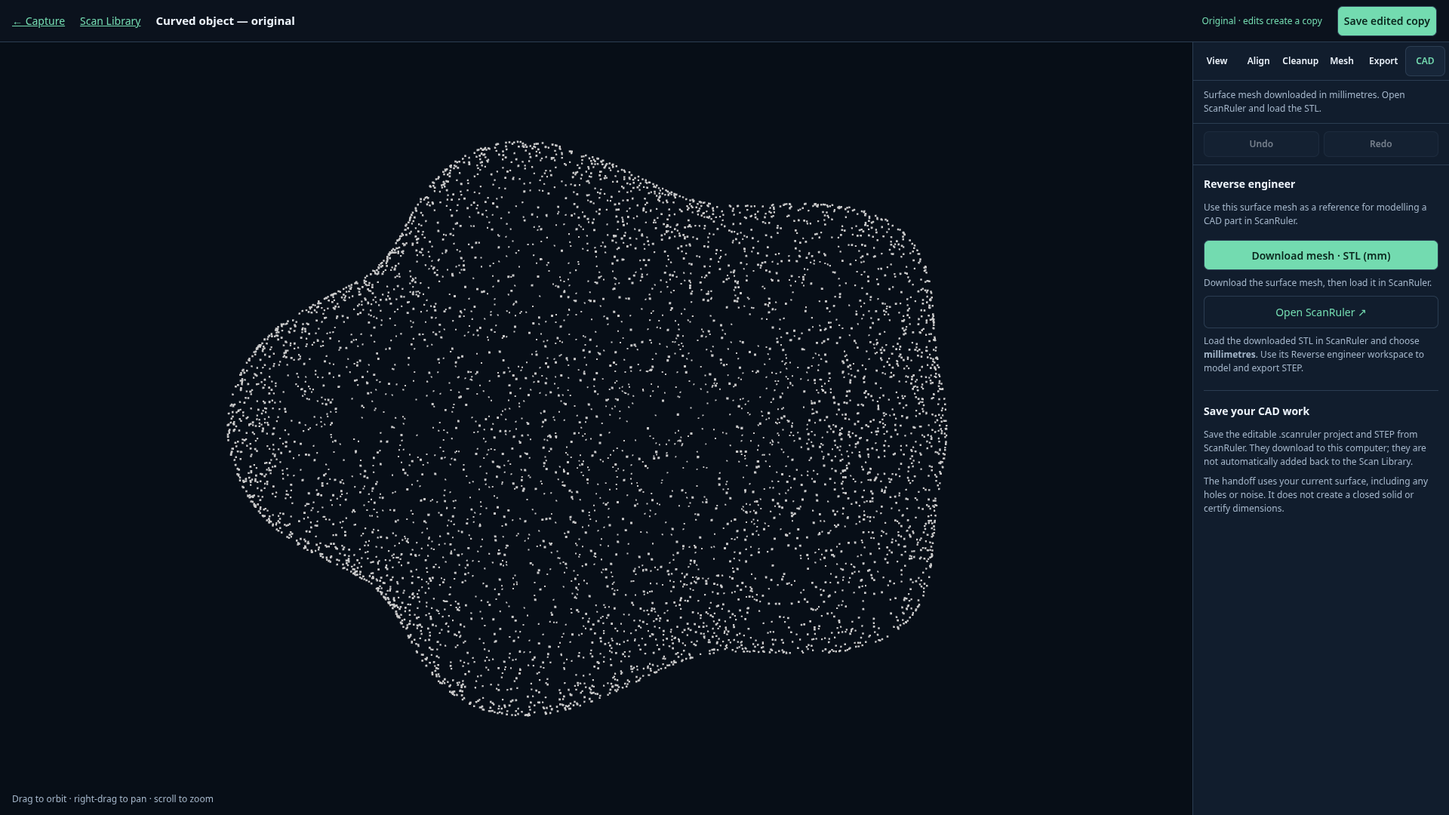
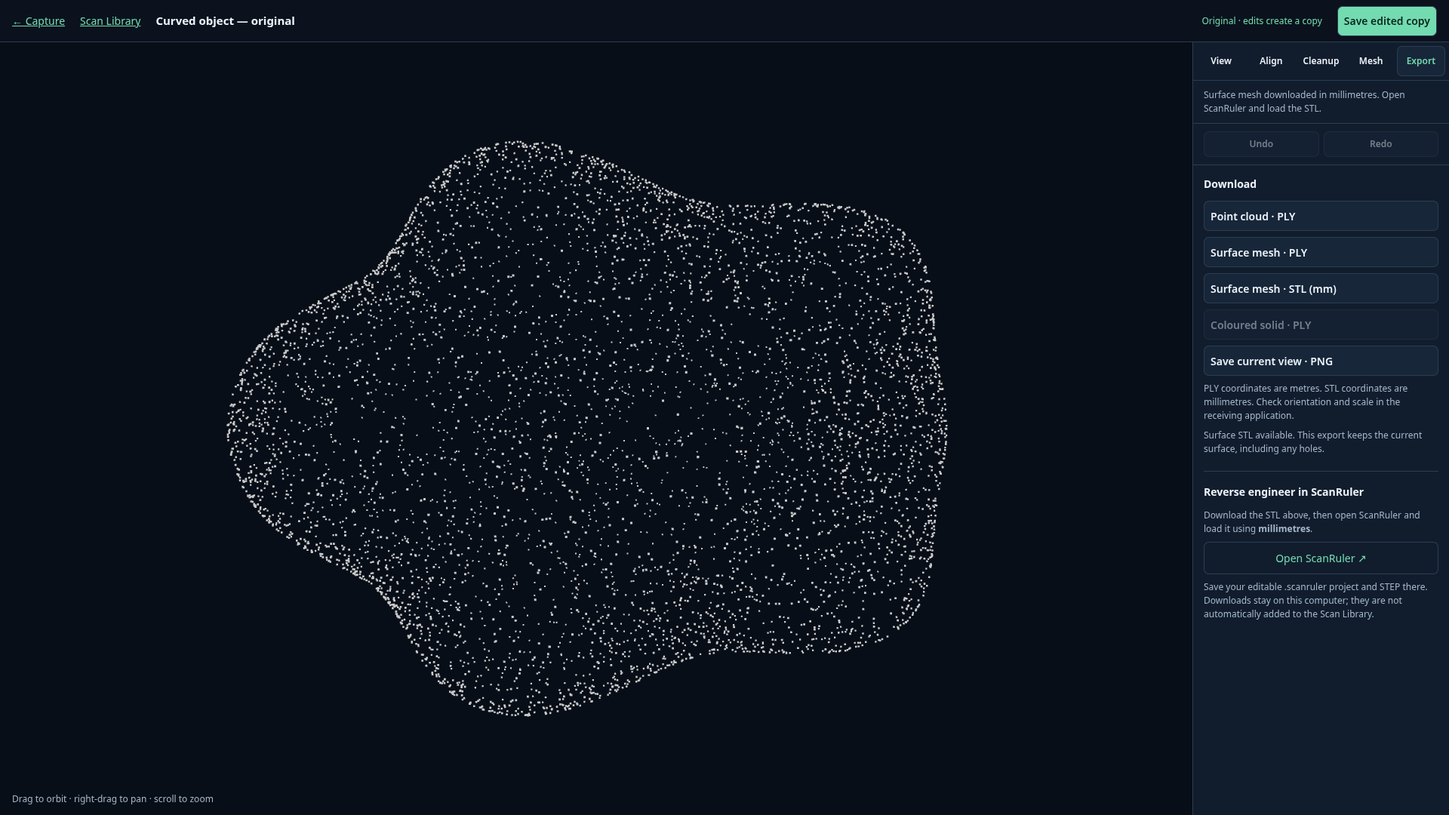
Consolidate ScanRuler handoff into Export and reuse STL download

Changed region(s): [[0.8125, 0.2139, 1.0, 0.7639], [0.8438, 0.0611, 1.0, 0.0917]]

diff --git a/tribuutscan/web/index.html b/tribuutscan/web/index.html
@@ -1,6 +1,6 @@
 <!doctype html><html lang="en"><head><meta charset="utf-8"><meta name="viewport" content="width=device-width,initial-scale=1"><title>Saved scan workspace · triBUUTSCAN</title>
 <style>
-:root{color-scheme:dark;--bg:#0b121d;--panel:#111d2d;--raised:#172639;--line:#2b3d52;--text:#edf4fc;--muted:#a4b6ca;--accent:#73dbb0;font:14px/1.5 system-ui,sans-serif}*{box-sizing:border-box}body{margin:0;background:var(--bg);color:var(--text)}a{color:var(--accent)}header{height:56px;display:flex;align-items:center;gap:20px;padding:0 16px;border-bottom:1px solid var(--line)}header h1{font-size:15px;margin:0;overflow:hidden;text-overflow:ellipsis;white-space:nowrap;flex:1}button,input,select{font:inherit;border:1px solid var(--line);border-radius:7px;background:var(--raised);color:var(--text);min-height:40px;padding:8px}button{font-weight:600;cursor:pointer}button:hover:enabled{background:#26405b}button:disabled,.later{opacity:.45;cursor:default}.primary{background:var(--accent);color:#09251c}button:focus-visible,a:focus-visible,select:focus-visible,input:focus-visible{outline:3px solid #81c8ff;outline-offset:2px}[hidden]{display:none!important}.workspace-body{display:grid;grid-template-columns:minmax(0,1fr) 340px;position:relative;height:calc(100dvh - 56px)}.viewport{position:relative;min-height:300px;min-width:0;background:#070e17}#view,#selection{position:absolute;inset:0;width:100%;height:100%;display:block}#view{touch-action:none}#selection{pointer-events:none}#empty{position:absolute;inset:0;display:none;place-items:center;color:var(--muted);padding:24px;text-align:center;pointer-events:none}#empty.show{display:grid}.view-hint{position:absolute;bottom:12px;left:16px;color:var(--muted);font-size:12px;pointer-events:none}.tools{background:var(--panel);border-left:1px solid var(--line);display:flex;flex-direction:column;min-height:0}.tool-tabs{display:grid;grid-template-columns:repeat(6,minmax(0,1fr));gap:2px;padding:5px;border-bottom:1px solid var(--line);background:var(--panel);flex-shrink:0;z-index:4}.tool-tabs button{background:transparent;border-color:transparent;font-size:12px;padding:8px 2px;min-width:0}.tool-tabs button[aria-selected=true]{color:var(--accent);background:var(--raised);border-color:var(--line)}.tool-content{overflow:auto;min-height:0;padding:14px}.tool-content section+section{margin-top:20px;padding-top:16px;border-top:1px solid var(--line)}h2{font-size:14px;margin:0 0 12px}p,label,dt{color:var(--muted);font-size:12px}p{margin:8px 0}label{display:block;margin:12px 0 4px}select,input[type=range]{width:100%}dl{display:grid;grid-template-columns:auto 1fr;gap:6px 12px;margin:0 0 16px}dd{margin:0;text-align:right;font-size:12px}button.wide{width:100%;margin-top:8px}.buttons{display:flex;gap:6px;margin-top:8px}.buttons button{flex:1;font-size:12px}.downloads{display:grid;gap:8px}.downloads button{text-align:left}.history{display:flex;gap:6px;padding:10px 14px;border-bottom:1px solid var(--line)}.history button{flex:1;min-height:34px;font-size:12px;padding:6px}#status{padding:10px 14px;margin:0;border-bottom:1px solid var(--line);font-size:12px;color:var(--muted);overflow-wrap:anywhere}#status[data-error=true]{color:#ffb6bf}#edit-state{font-size:12px;color:var(--accent);white-space:nowrap}#coverage-legend{font-size:12px;color:var(--muted)}#coverage-legend ul{list-style:none;padding:0}.swatch{display:inline-block;width:9px;height:9px;border-radius:50%;margin-right:6px}.light{background:#ffc45c}.repeat{background:#53b9ff}#cropbox label{display:flex;justify-content:space-between}#cropbox output{color:var(--text)}.bad{color:#ffb6bf}#alignment-frame{position:absolute;inset:0;width:100%;height:100%;border:0;z-index:2}.align-active .tools{background:transparent;pointer-events:none;z-index:3}.align-active .tool-tabs{pointer-events:auto}.align-active .tool-content,.align-active .history,.align-active #status{visibility:hidden}.align-active .viewport{visibility:hidden}
+:root{color-scheme:dark;--bg:#0b121d;--panel:#111d2d;--raised:#172639;--line:#2b3d52;--text:#edf4fc;--muted:#a4b6ca;--accent:#73dbb0;font:14px/1.5 system-ui,sans-serif}*{box-sizing:border-box}body{margin:0;background:var(--bg);color:var(--text)}a{color:var(--accent)}header{height:56px;display:flex;align-items:center;gap:20px;padding:0 16px;border-bottom:1px solid var(--line)}header h1{font-size:15px;margin:0;overflow:hidden;text-overflow:ellipsis;white-space:nowrap;flex:1}button,input,select{font:inherit;border:1px solid var(--line);border-radius:7px;background:var(--raised);color:var(--text);min-height:40px;padding:8px}button{font-weight:600;cursor:pointer}button:hover:enabled{background:#26405b}button:disabled,.later{opacity:.45;cursor:default}.primary{background:var(--accent);color:#09251c}button:focus-visible,a:focus-visible,select:focus-visible,input:focus-visible{outline:3px solid #81c8ff;outline-offset:2px}[hidden]{display:none!important}.workspace-body{display:grid;grid-template-columns:minmax(0,1fr) 340px;position:relative;height:calc(100dvh - 56px)}.viewport{position:relative;min-height:300px;min-width:0;background:#070e17}#view,#selection{position:absolute;inset:0;width:100%;height:100%;display:block}#view{touch-action:none}#selection{pointer-events:none}#empty{position:absolute;inset:0;display:none;place-items:center;color:var(--muted);padding:24px;text-align:center;pointer-events:none}#empty.show{display:grid}.view-hint{position:absolute;bottom:12px;left:16px;color:var(--muted);font-size:12px;pointer-events:none}.tools{background:var(--panel);border-left:1px solid var(--line);display:flex;flex-direction:column;min-height:0}.tool-tabs{display:grid;grid-template-columns:repeat(5,minmax(0,1fr));gap:2px;padding:5px;border-bottom:1px solid var(--line);background:var(--panel);flex-shrink:0;z-index:4}.tool-tabs button{background:transparent;border-color:transparent;font-size:12px;padding:8px 2px;min-width:0}.tool-tabs button[aria-selected=true]{color:var(--accent);background:var(--raised);border-color:var(--line)}.tool-content{overflow:auto;min-height:0;padding:14px}.tool-content section+section{margin-top:20px;padding-top:16px;border-top:1px solid var(--line)}h2{font-size:14px;margin:0 0 12px}p,label,dt{color:var(--muted);font-size:12px}p{margin:8px 0}label{display:block;margin:12px 0 4px}select,input[type=range]{width:100%}dl{display:grid;grid-template-columns:auto 1fr;gap:6px 12px;margin:0 0 16px}dd{margin:0;text-align:right;font-size:12px}button.wide{width:100%;margin-top:8px}.buttons{display:flex;gap:6px;margin-top:8px}.buttons button{flex:1;font-size:12px}.downloads{display:grid;gap:8px}.downloads button{text-align:left}.history{display:flex;gap:6px;padding:10px 14px;border-bottom:1px solid var(--line)}.history button{flex:1;min-height:34px;font-size:12px;padding:6px}#status{padding:10px 14px;margin:0;border-bottom:1px solid var(--line);font-size:12px;color:var(--muted);overflow-wrap:anywhere}#status[data-error=true]{color:#ffb6bf}#edit-state{font-size:12px;color:var(--accent);white-space:nowrap}#coverage-legend{font-size:12px;color:var(--muted)}#coverage-legend ul{list-style:none;padding:0}.swatch{display:inline-block;width:9px;height:9px;border-radius:50%;margin-right:6px}.light{background:#ffc45c}.repeat{background:#53b9ff}#cropbox label{display:flex;justify-content:space-between}#cropbox output{color:var(--text)}.bad{color:#ffb6bf}#alignment-frame{position:absolute;inset:0;width:100%;height:100%;border:0;z-index:2}.align-active .tools{background:transparent;pointer-events:none;z-index:3}.align-active .tool-tabs{pointer-events:auto}.align-active .tool-content,.align-active .history,.align-active #status{visibility:hidden}.align-active .viewport{visibility:hidden}
 @media(max-width:760px){header{height:auto;min-height:56px;flex-wrap:wrap;gap:8px;padding:10px}header h1{order:3;flex-basis:100%;font-size:13px}#copy-scan{margin-left:auto;font-size:12px}#edit-state{font-size:11px}.workspace-body{display:flex;flex-direction:column;height:auto}.viewport{height:52dvh;min-height:300px}.tools{border-left:0;border-top:1px solid var(--line)}.tool-content{max-height:65dvh}.align-active{height:calc(100dvh - 100px)}.align-active .viewport{height:0;min-height:0}.align-active .tools{height:48px}.align-active #alignment-frame{top:48px;height:calc(100% - 48px)}}
 @media(max-width:760px),(pointer:coarse){.desktop-cad{display:none!important}.tool-tabs{grid-template-columns:repeat(5,minmax(0,1fr))}}
 .cad-link{display:block;text-align:center;border:1px solid var(--line);border-radius:7px;padding:10px;margin-top:8px;text-decoration:none}
@@ -8,7 +8,7 @@
 <header><a id="scanner-controls" href="/">← Capture</a><a id="library-link" href="/library">Scan Library</a><h1 id="name">Saved scan workspace</h1><span id="edit-state">Original</span><button id="copy-scan" class="primary">Save edited copy</button></header>
 <main class="workspace-body" id="workspace-body"><section class="viewport" id="viewport"><canvas id="view" aria-label="Saved scan model"></canvas><canvas id="selection"></canvas><div id="empty"><div>No saved model loaded. Return to Capture → Files to open a scan.</div></div><div class="view-hint" id="view-hint">Drag to orbit · right-drag to pan · scroll to zoom</div></section>
 <aside class="tools"><nav class="tool-tabs" role="tablist" aria-label="Saved scan tools">
-<button id="tab-view" role="tab" data-tool="view" aria-controls="panel-view" aria-selected="true">View</button><button id="tab-align" role="tab" data-tool="align" aria-controls="panel-align" aria-selected="false" tabindex="-1">Align</button><button id="tab-cleanup" role="tab" data-tool="cleanup" aria-controls="panel-cleanup" aria-selected="false" tabindex="-1">Cleanup</button><button id="tab-mesh" role="tab" data-tool="mesh" aria-controls="panel-mesh" aria-selected="false" tabindex="-1">Mesh</button><button id="tab-export" role="tab" data-tool="export" aria-controls="panel-export" aria-selected="false" tabindex="-1">Export</button><button id="tab-cad" class="desktop-cad" role="tab" data-tool="cad" aria-controls="panel-cad" aria-selected="false" tabindex="-1" title="Reverse engineer in ScanRuler">CAD</button></nav>
+<button id="tab-view" role="tab" data-tool="view" aria-controls="panel-view" aria-selected="true">View</button><button id="tab-align" role="tab" data-tool="align" aria-controls="panel-align" aria-selected="false" tabindex="-1">Align</button><button id="tab-cleanup" role="tab" data-tool="cleanup" aria-controls="panel-cleanup" aria-selected="false" tabindex="-1">Cleanup</button><button id="tab-mesh" role="tab" data-tool="mesh" aria-controls="panel-mesh" aria-selected="false" tabindex="-1">Mesh</button><button id="tab-export" role="tab" data-tool="export" aria-controls="panel-export" aria-selected="false" tabindex="-1">Export</button></nav>
 <p id="status" role="status">Loading saved scan…</p><div class="history"><button id="edit-undo" disabled>Undo</button><button id="edit-redo" disabled>Redo</button></div>
 <div class="tool-content">
 <div id="panel-view" role="tabpanel" aria-labelledby="tab-view" data-panel="view"><section><h2>Model</h2><dl><dt>Points</dt><dd id="points">–</dd><dt>Point spacing</dt><dd id="pd">–</dd><dt>Source points</dt><dd id="raw">–</dd><dt>Accepted views</dt><dd id="frames">–</dd></dl><span hidden><span id="capture"></span><span id="tracking"></span><span id="geometry"></span><span id="last-view-label"></span><span id="last-view"></span><span id="scanhint"></span></span><div id="piece-picker" hidden><label>Pieces<select id="piece"></select></label><p id="piece-note"></p></div>
@@ -23,8 +23,7 @@
 <label for="c5">Front<output id="v5">0 mm</output></label><input id="c5" type="range" min="0" max="1" step="1" value="0">
 <div class="buttons"><button id="crop-apply" class="primary">Apply crop</button><button id="crop-cancel">Cancel</button></div></div><div class="buttons"><button data-action="base-off">Remove base</button><button data-action="base-on">Keep base</button></div></section></div>
 <div id="panel-mesh" role="tabpanel" aria-labelledby="tab-mesh" data-panel="mesh" hidden><section><h2>Build surface</h2><button data-action="mesh" class="wide primary">Generate mesh</button><p>Uses recorded depth when available. A rough point-cloud surface is the fallback when recordings cannot be used.</p><p id="mesh-status"></p></section><section><h2>Reprocess source geometry</h2><button data-action="optimise" class="wide">Optimise alignment</button><p>Optimise before lasso cleanup. Geometry changes may retire generated meshes.</p><label>Rebuild point cloud spacing</label><div class="buttons"><button data-action="small">0.5 mm</button><button data-action="medium">1 mm</button><button data-action="large">2 mm</button></div></section></div>
-<div id="panel-export" role="tabpanel" aria-labelledby="tab-export" data-panel="export" hidden><section><h2>Download</h2><div class="downloads"><button id="dl-ply">Point cloud · PLY</button><button id="dl-mesh" disabled>Surface mesh · PLY</button><button id="dl-stl" disabled>Printable mesh · STL</button><button id="dl-solid" disabled>Coloured solid · PLY</button><button id="dl-png">Save current view · PNG</button></div><p>PLY coordinates are metres. STL coordinates are millimetres. Check orientation and scale in the receiving application.</p><p id="export-status"></p></section></div>
-<div id="panel-cad" class="desktop-cad" role="tabpanel" aria-labelledby="tab-cad" data-panel="cad" hidden><section><h2>Reverse engineer</h2><p>Use this surface mesh as a reference for modelling a CAD part in ScanRuler.</p><button id="cad-download" class="wide primary" disabled>Download mesh · STL (mm)</button><p id="cad-status" role="status"></p><a id="cad-open" class="cad-link" href="https://scanruler.com/?workspace=reverse" target="_blank" rel="noopener noreferrer">Open ScanRuler ↗</a><p>Load the downloaded STL in ScanRuler and choose <strong>millimetres</strong>. Use its Reverse engineer workspace to model and export STEP.</p></section><section><h2>Save your CAD work</h2><p>Save the editable .scanruler project and STEP from ScanRuler. They download to this computer; they are not automatically added back to the Scan Library.</p><p>The handoff uses your current surface, including any holes or noise. It does not create a closed solid or certify dimensions.</p></section></div>
+<div id="panel-export" role="tabpanel" aria-labelledby="tab-export" data-panel="export" hidden><section><h2>Download</h2><div class="downloads"><button id="dl-ply">Point cloud · PLY</button><button id="dl-mesh" disabled>Surface mesh · PLY</button><button id="dl-stl" disabled>Printable mesh · STL</button><button id="dl-solid" disabled>Coloured solid · PLY</button><button id="dl-png">Save current view · PNG</button></div><p>PLY coordinates are metres. STL coordinates are millimetres. Check orientation and scale in the receiving application.</p><p id="export-status"></p></section><section id="cad-handoff" class="desktop-cad"><h2>Reverse engineer in ScanRuler</h2><p>Download the STL above, then open ScanRuler and load it using <strong>millimetres</strong>.</p><a id="cad-open" class="cad-link" href="https://scanruler.com/?workspace=reverse" target="_blank" rel="noopener noreferrer">Open ScanRuler ↗</a><p>Save your editable .scanruler project and STEP there. Downloads stay on this computer; they are not automatically added to the Scan Library.</p></section></div>
 </div></aside><iframe id="alignment-frame" title="Saved scan alignment" hidden></iframe></main>
 <script type="module">
 
@@ -396,12 +395,13 @@ function updateTools(){
   $('cleanup-clear').disabled=busy||!done||!remote||!session.cleanup_regions;
   $('crop-open').disabled=busy||!done;$('crop-apply').disabled=busy||!done;
   $('crop-open').classList.toggle('later',!done||busy);
-  for(const [id,key] of [['dl-mesh','mesh'],['dl-stl','stl'],['dl-solid','solid']])$(id).disabled=!lastInfo?.[key]||busy;
+  for(const [id,key] of [['dl-mesh','mesh'],['dl-solid','solid']])$(id).disabled=!lastInfo?.[key]||busy;
   $('edit-state').textContent=lastInfo?.editing?'Editable copy':'Original · edits create a copy';
   $('mesh-status').textContent=lastInfo?.mesh?'Surface mesh available. Regenerate after geometry cleanup.':'No surface mesh generated yet.';
-  $('cad-download').disabled=busy||!done||!lastInfo?.mesh;
-  $('cad-status').textContent=!done?'Open a finished scan to prepare a handoff.':lastInfo?.mesh?'Download the surface mesh, then load it in ScanRuler.':'Generate a surface in Mesh first. Point clouds cannot be handed off yet.';
-  $('export-status').textContent=lastInfo?.stl?(lastInfo.stl_state==='closed'?'Closed STL available.':'STL available; check closure before printing.'):'Generate a mesh to enable mesh exports.';
+  $('dl-stl').disabled=busy||(!lastInfo?.stl&&(!done||!lastInfo?.mesh));
+  $('dl-stl').classList.toggle('later',$('dl-stl').disabled);
+  $('dl-stl').textContent=lastInfo?.stl?'Printable mesh · STL (mm)':'Surface mesh · STL (mm)';
+  $('export-status').textContent=lastInfo?.stl?(lastInfo.stl_state==='closed'?'Closed STL available.':'STL available; check closure before printing.'):lastInfo?.mesh?'Surface STL available. This export keeps the current surface, including any holes.':'Generate a mesh to enable mesh exports.';
 }
 
 async function poll() {
@@ -453,8 +453,7 @@ async function poll() {
     if(key===cloudKey)renderedModel={name:info.name,version:info.version};
     $("dl-ply").classList.toggle("later", info.phase === "paused" || !$("piece-picker").hidden);
     $("dl-mesh").classList.toggle("later", !info.mesh);
-    $("dl-stl").classList.toggle("later", !info.stl);
-    $("dl-stl").title = !info.stl ? "make a full mesh first"
+    $("dl-stl").title = !info.stl ? (info.mesh ? "mm, current surface; may contain holes" : "Generate a surface mesh first")
       : info.stl_state === "closed" ? "mm, closed, for slicers"
       : info.stl_state === "open" ? "mm, unsealed surface"
       : "mm, closure not recorded";
@@ -506,7 +505,7 @@ if (!location.pathname.startsWith("/model/")) $("scanner-controls").classList.ad
 if (!location.pathname.startsWith('/model/')) $('library-link').hidden=true;
 $("dl-ply").addEventListener("click", () => { if (!$("dl-ply").classList.contains("later")) location.href = "cloud.ply"; });
 $("dl-mesh").addEventListener("click", () => { if (!$("dl-mesh").classList.contains("later")) location.href = "mesh.ply"; });
-$("dl-stl").addEventListener("click", () => { if (!$("dl-stl").classList.contains("later")) location.href = "mesh.stl"; });
+$("dl-stl").addEventListener("click", () => { if($("dl-stl").disabled)return;if(lastInfo?.stl)location.href="mesh.stl";else downloadSurfaceStl(); });
 $("dl-solid").addEventListener("click", () => { if (!$("dl-solid").classList.contains("later")) location.href = "solid.ply"; });
 document.querySelectorAll("[data-action]").forEach((li) => li.addEventListener("click", () => {
   if (!li.classList.contains("later")) runAction(li.dataset.action, li.textContent.trim());
@@ -527,7 +526,7 @@ $("dl-png").addEventListener("click", () => {
 });
 
 // Desktop-only file handoff: no scanner tokens or private model URLs leave this page.
-$('cad-download').onclick=async()=>{
+async function downloadSurfaceStl(){
  if(busy||lastInfo?.phase!=='done'||!lastInfo?.mesh)return;
  const snapshot={...lastInfo};busy=true;updateTools();status('Preparing surface mesh handoff…');
  try{
@@ -540,13 +539,6 @@ $('cad-download').onclick=async()=>{
   status('Surface mesh downloaded in millimetres. Open ScanRuler and load the STL.');
  }catch(e){status(e.message,true);}finally{busy=false;updateTools();}
 };
-const cadPhone=window.matchMedia('(max-width: 760px), (pointer: coarse)');
-function updateCadDevice(){
- $('tab-cad').hidden=cadPhone.matches;
- if(cadPhone.matches&&tool==='cad')selectTool('view');
-}
-updateCadDevice();cadPhone.addEventListener('change',updateCadDevice);
-
 function selectTool(name,focus=false){
   tool=name;
   for(const tab of document.querySelectorAll('[data-tool]')){

diff --git a/docs/cad-handoff.md b/docs/cad-handoff.md
@@ -1,15 +1,16 @@
 # Desktop CAD handoff
 
 Open a saved scan, finish alignment/cleanup and generate a surface in **Mesh**.
-The desktop saved workspace has a **CAD** tab for handing that mesh to
+The desktop saved workspace groups the handoff under **Export**, with a link to
 [ScanRuler](https://scanruler.com/?workspace=reverse) in a separate browser tab.
 
 ![Desktop CAD handoff using synthetic geometry](images/saved-cad-handoff.png)
 
 ## Download, open and model
 
-1. In **CAD**, press **Download mesh · STL (mm)**. The browser downloads
-   `<scan-id>-surface-mm.stl` from the selected session's current `mesh.ply`.
+1. In **Export**, download the STL. **Printable mesh · STL (mm)** downloads the
+   existing STL when available. Otherwise **Surface mesh · STL (mm)** converts the
+   current surface to `<scan-id>-surface-mm.stl`. A surface mesh is required.
 2. Press **Open ScanRuler**. In that tab, load the downloaded STL and choose
    **millimetres** when asked for its units. Select **Reverse engineer** if needed.
 3. Model the part against the scan, then save its editable `.scanruler` project
@@ -23,9 +24,10 @@ helper. ScanRuler's modelling capabilities and workflow are described in its
 
 ## Surface and units
 
-The handoff converts the saved surface coordinates from metres to millimetres.
-It uses the actual surface mesh, including a rough/open fallback surface when
-available; it does not require a separate printable STL. Triangle geometry and
+When no saved STL exists, the download converts saved surface coordinates from
+metres to millimetres. It supports rough/open fallback surfaces without creating
+a separate printable STL. An existing printable STL may contain reconstructed
+regions; inspect it against the source scan before modelling critical features. Triangle geometry and
 orientation are retained. It does not fill holes, close the part, create a CAD
 solid or certify accuracy. Colour is not carried by this binary STL.
 
@@ -36,9 +38,9 @@ or a previous printable STL. Downloads do not modify the capture or its exports.
 
 ## Desktop scope and saved work
 
-CAD handoff is hidden on narrow screens (760 pixels or less) and devices whose
+The ScanRuler section is hidden on narrow screens (760 pixels or less) and devices whose
 primary pointer is coarse, including phones. Scanning and the existing phone
-controls remain available. ScanRuler runs its modelling in the desktop browser;
+controls and ordinary STL downloads remain available. ScanRuler runs its modelling in the desktop browser;
 this feature does not move that work onto the scanner host when browsing remotely.
 
 The project, STEP and any reports saved from ScanRuler remain on the computer

diff --git a/docs/build-status.md b/docs/build-status.md
@@ -170,16 +170,17 @@ and cleanup additions are tracked separately in the [roadmap](roadmap.md).
 
 ## Desktop CAD handoff — 23 November 2026
 
-A desktop-only CAD tab hands the selected surface mesh to ScanRuler through an
-explicit millimetre STL download and a separate-tab link. This is a manual file
+A desktop-only ScanRuler section under Export uses the existing STL download
+and a separate-tab link. When no saved STL exists, the same button exports the
+current surface in millimetres. No additional CAD tab is needed. This is a manual file
 handoff, with no agent installation, direct scan URL sharing or automatic CAD
-project import. The source mesh and capture are unchanged, including rough/open
-surfaces. ScanRuler remains a separate application.
+project import. Source geometry is unchanged; rough/open surface exports are supported. ScanRuler remains a separate application.
 
 The handoff, webapp and mesh-export modules passed 37 checks. JavaScript checks
 covered handoff controls and saved lasso regressions. A browser trial downloaded
 and parsed a synthetic surface STL and checked the panel, missing-mesh guard,
-1920/1366-pixel desktop layouts and phone exclusion. The screenshot uses synthetic
+1920/1366-pixel desktop layouts and phone exclusion. A follow-up browser check
+verified the shared STL button and the five-tab layout after consolidating Export. The screenshot uses synthetic
 geometry. CAD reconstruction quality and third-party application behaviour are
 not certified by these handoff checks. See [CAD handoff](cad-handoff.md).
 

diff --git a/docs/saved-workspace.md b/docs/saved-workspace.md
@@ -129,13 +129,14 @@ the current camera view as PNG. Unavailable artifacts are disabled. PLY coordina
 are metres; STL coordinates are millimetres. Check scale and orientation in CAD or
 the slicer. Saving a PNG does not save the processing session or raw recordings.
 
-## CAD: desktop handoff
+## ScanRuler: desktop handoff
 
-The desktop **CAD** tab downloads the current surface as millimetre STL and opens
-ScanRuler in a separate tab. Load the downloaded file there, choose millimetres
+Under **Export**, the desktop ScanRuler section uses the existing STL download
+and opens ScanRuler in a separate tab. If no saved STL exists, that download
+exports the current surface in millimetres instead. Load the downloaded file there, choose millimetres
 and use its Reverse engineer workspace. Projects and STEP downloads are saved
 through ScanRuler and are not automatically imported back into this library.
-This tab is hidden on phones. See [CAD handoff](cad-handoff.md).
+The ScanRuler section is hidden on phones. See [CAD handoff](cad-handoff.md).
 
 This release adds manual lasso/crop cleanup, integrated alignment and a desktop CAD handoff. Automatic
 island removal, hole-repair brushes, measurement/section tools, CAD deviation maps

diff --git a/docs/web-ui.md b/docs/web-ui.md
@@ -139,7 +139,7 @@ The library uses the same paired LAN session and adapts to phone width. See the
 
 ## Desktop CAD handoff
 
-Saved scans have a desktop-only **CAD** tab beside Export. Download the surface
-mesh as millimetre STL, open ScanRuler and load it there for modelling. It is a
-manual file handoff; projects and STEP files are saved through ScanRuler. Phone
-layouts retain the existing five tabs. See [CAD handoff](cad-handoff.md).
+Saved scans have a desktop-only ScanRuler section in **Export**. Download the STL
+above it, open ScanRuler and load it there for modelling. If no saved STL exists,
+the download exports the current surface in millimetres. It is a
+manual file handoff; projects and STEP files are saved through ScanRuler. All layouts retain five tabs; the ScanRuler section is hidden on phones. See [CAD handoff](cad-handoff.md).

diff --git a/docs/images/README.md b/docs/images/README.md
@@ -13,7 +13,7 @@ private saved scans or live host credentials are included.
 | `web-phone-pairing.png` | Pairing dialog cropped by the browser |
 | `web-mobile.png` | Full page at a 390×844 phone viewport |
 | `web-alignment.png` | Full 1920×1080 Align tab immediately after the opened scan loads as reference |
-| `saved-cad-handoff.png` | Desktop CAD tab after downloading a synthetic surface in millimetres |
+| `saved-cad-handoff.png` | Export tab with shared STL download and desktop ScanRuler handoff, synthetic surface |
 | `saved-workspace.png` | New saved-result workspace, View tab, synthetic session |
 | `saved-alignment.png` | Align tab with both synthetic scans loaded and Move scan selected |
 | `saved-cleanup.png` | Lasso selection preview inside Cleanup, synthetic session |

diff --git a/README.md b/README.md
@@ -97,7 +97,7 @@ forward this port directly onto the internet.
   take and starts optimisation; meshing follows if enabled.
 - Saved scans open in a matching **View / Align / Cleanup / Mesh / Export**
   workspace, with automatic editing copies, lasso deletion and persistent undo/redo.
-  A desktop **CAD** tab adds a millimetre STL handoff to ScanRuler in a separate browser tab.
+  **Export** includes a desktop ScanRuler handoff using the STL download and a separate browser tab.
   Files remain in this checkout's ignored `captures/` directory.
 - **Files → Open Scan Library** provides thumbnails, display names, search,
   related versions, storage details and reversible Bin. **Open scan → Align**

diff --git a/docs/user-guide.md b/docs/user-guide.md
@@ -198,6 +198,6 @@ For file contents, units and calibration, see the
 [technical reference](technical-reference.md). For benchmark and recovery work
 that is not fully validated, see [build status](build-status.md).
 
-On desktop browsers, the saved workspace also offers **CAD** for a manual
+On desktop browsers, **Export** also offers a manual
 [millimetre STL handoff to ScanRuler](cad-handoff.md). Generate a surface first;
 CAD work stays in the separate ScanRuler browser tab.
